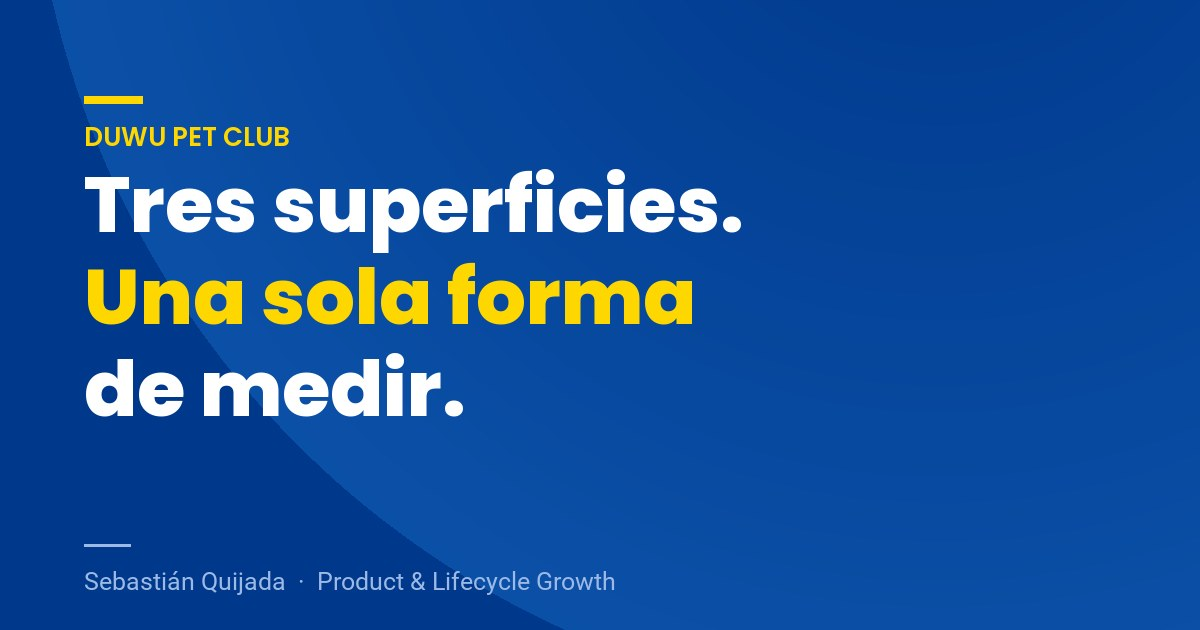
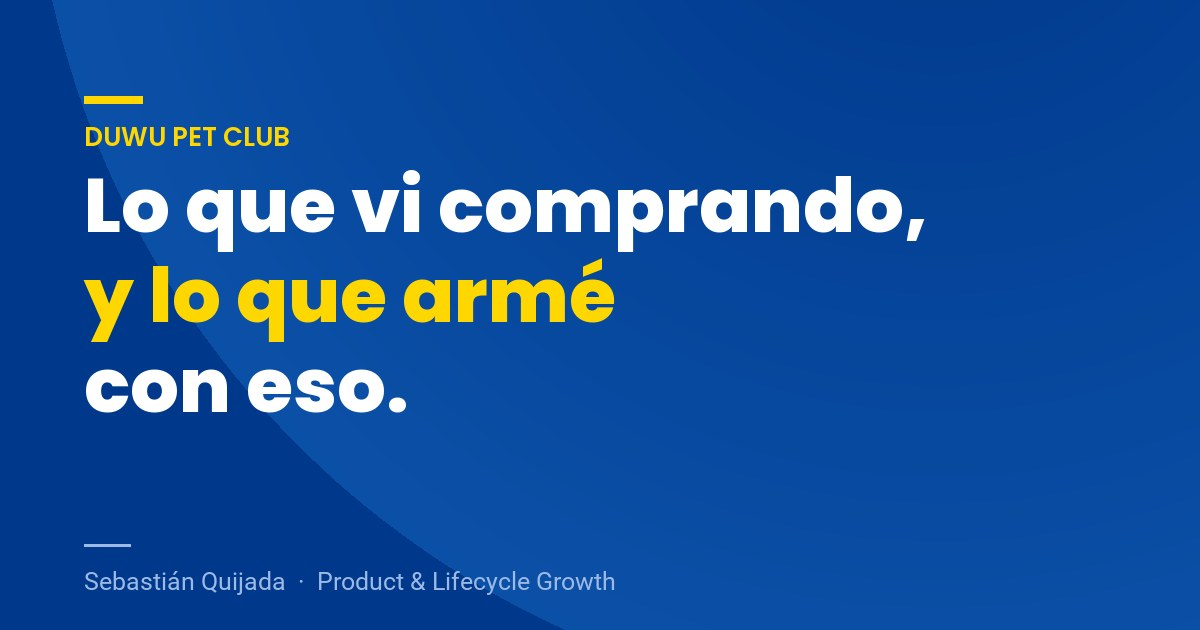
Cambiar el encuadre: observaciones de usuario en vez de informe de estado
El bloque "Web / iOS / Android · Verificado / Sin verificar" era una matriz de
auditoría: le informaba a Duwu algo que ya sabe y no aportaba nada. Además
contradecía el tono de la pieza, que no es una auditoría sino la perspectiva de
alguien que usó el producto.

Ahora la sección son tres observaciones de usuario que llevan a algo:
- el club existe pero no se ve hasta después de registrarse,
- la comida se acaba en una fecha calculable y el siguiente pedido depende de
  que el cliente se acuerde,
- la ubicación ya se pide y ya existe el catálogo de servicios, pero solo se usa
  para despachar.

Dos de las tres son exactamente las herramientas construidas más abajo, así que
la sección deja de ser un informe y pasa a ser el origen del trabajo. La tercera
queda declarada como no construida por tocar decisiones de negocio.

Se explicita que no es una auditoría, y sobre medición solo se afirma lo que se
puede ver, sin opinar de las apps ni del servidor.

Hero, imagen de previsualización y metas actualizados al nuevo encuadre.

Changed region(s): [[0.0617, 0.2714, 0.7708, 0.5429], [0.0617, 0.5429, 0.4008, 0.6635]]

diff --git a/pitch/index.html b/pitch/index.html
@@ -5,13 +5,13 @@
 <meta name="viewport" content="width=device-width, initial-scale=1, viewport-fit=cover">
 <meta name="color-scheme" content="light dark">
 <meta name="theme-color" content="#00388b">
-<meta name="description" content="Duwu vende por web, iOS y Android. Análisis y propuesta para estandarizar la medición entre las tres, con dos herramientas ya construidas.">
+<meta name="description" content="Tres cosas que noté comprando en Duwu, y dos herramientas que construí a partir de ahí: cálculo de reposición y servicios por cercanía.">
 
 <meta property="og:type" content="website">
 <meta property="og:locale" content="es_VE">
 <meta property="og:url" content="https://duwu-growth-pitch.vercel.app">
-<meta property="og:title" content="Tres superficies. Una sola forma de medir.">
-<meta property="og:description" content="Duwu vende por web, iOS y Android. Análisis y propuesta para estandarizar la medición entre las tres, con dos herramientas ya construidas.">
+<meta property="og:title" content="Lo que vi comprando, y lo que armé con eso.">
+<meta property="og:description" content="Tres cosas que noté comprando en Duwu, y dos herramientas que construí a partir de ahí: cálculo de reposición y servicios por cercanía.">
 <meta property="og:image" content="https://duwu-growth-pitch.vercel.app/og.jpg">
 <meta property="og:image:width" content="1200">
 <meta property="og:image:height" content="630">
@@ -180,6 +180,12 @@
   .stat .n{font-family:var(--display);font-size:3.4rem;font-weight:800;line-height:1;
     letter-spacing:-.045em;font-variant-numeric:tabular-nums;display:block;margin-bottom:.6rem}
   .stat.is-open::after{background:var(--rule-2)}
+  .stat.obs::after{background:var(--yellow)}
+  .stat.obs .t{
+    font-family:var(--display);font-size:1.12rem;font-weight:600;line-height:1.28;
+    letter-spacing:-.015em;margin-bottom:.7rem;
+  }
+  .stat.obs .d{font-size:.92rem}
   .stat .n.is-word{font-size:2.1rem;letter-spacing:-.03em;margin-bottom:.75rem}
   .mark-ok,.mark-open{
     display:inline-flex;align-items:center;gap:.4rem;font-family:var(--display);
@@ -529,14 +535,14 @@
     <div class="hero-grid">
       <div>
         <span class="eyebrow">Duwu Pet Club</span>
-        <h1>Tres superficies. <em>Una sola forma</em> de medir.</h1>
+        <h1>Lo que vi comprando, <em>y lo que armé</em> con eso.</h1>
         <p class="lede">
           Hace poco hice mi primera compra en Duwu y el recorrido completo, del onboarding a la
           entrega, me pareció excelente. Llevo <b>5 años en marketing</b>, pasando por growth,
           análisis de datos y desarrollo de producto, y en todo lo que uso termino viendo puntos de
           mejora. Más aún en un proyecto que resuelve algo tan necesario en Caracas, y ojalá pronto
-          en toda Venezuela. Duwu vende por web, iOS y Android: <b>el punto donde más valor veo es
-          en estandarizar cómo se mide en las tres</b>. Acá te dejo lo que vi, y lo que armé con eso.
+          en toda Venezuela. <b>Esto no es una auditoría</b> — no conozco sus datos ni sus razones.
+          Es lo que noté desde afuera, y dos cosas que construí a partir de ahí.
         </p>
         <div class="cta-row">
           <a class="btn btn-primary" href="#demo">Mira lo que armé ↓</a>
@@ -555,48 +561,43 @@
 <!-- ==================== HALLAZGO ==================== -->
 <section id="hallazgo">
   <div class="wrap">
-    <span class="sec-label reveal">Lo que puedo verificar y lo que no</span>
-    <h2 class="reveal">Miré la web a fondo. De las apps no puedo afirmar nada.</h2>
+    <span class="sec-label reveal">Desde afuera, como usuario</span>
+    <h2 class="reveal">Tres cosas que me quedaron dando vueltas</h2>
     <p class="sec-lede reveal">
-      Todo lo que traigo salió de revisar el sitio público. Es lo que cualquiera puede comprobar
-      desde afuera, y justo por eso tiene un límite que prefiero poner por delante.
+      Compré, me moví por la app y anoté lo que me llamó la atención. Varias de estas cosas
+      seguramente tienen una razón que desde afuera no alcanzo a ver — las dejo como observaciones
+      de alguien que usó el producto, no como diagnóstico.
     </p>
 
     <div class="stats">
-      <div class="stat reveal">
-        <span class="n is-word">Web</span>
-        <span class="mark-ok">Verificado</span>
-        <span class="t">El Pixel está bien puesto</span>
-        <span class="d">Meta Pixel activo y configurado, disparando los siete eventos de comercio.
-        ViewContent llega con identificador de producto, valor y moneda.</span>
+      <div class="stat obs reveal">
+        <span class="t">El club existe, pero me enteré tarde</span>
+        <span class="d">Hay niveles, recompensas y código de referidos. No los vi hasta después de
+        crear la cuenta, y la cuenta hace falta para armar el carrito. Lo que te haría volver está
+        detrás de lo primero que te cuesta hacer.</span>
       </div>
-      <div class="stat is-open reveal">
-        <span class="n is-word">iOS</span>
-        <span class="mark-open">Sin verificar</span>
-        <span class="t">No puedo saber qué mide</span>
-        <span class="d">La app puede tener una analítica distinta a la de la web, o la misma. Desde
-        afuera no hay forma de confirmarlo.</span>
+      <div class="stat obs reveal">
+        <span class="t">La comida se acaba en una fecha que se puede calcular</span>
+        <span class="d">Compré un saco. Con el peso de la mascota y el tamaño del saco, ustedes
+        pueden estimar cuándo se acaba mejor que yo. Y sin embargo el siguiente pedido depende de
+        que yo me acuerde.</span>
       </div>
-      <div class="stat is-open reveal">
-        <span class="n is-word">Android</span>
-        <span class="mark-open">Sin verificar</span>
-        <span class="t">Misma pregunta abierta</span>
-        <span class="d">Y si cada superficie mide con criterios distintos, los resultados dejan de
-        ser comparables entre ellas.</span>
+      <div class="stat obs reveal">
+        <span class="t">La ubicación solo sirve para entregar</span>
+        <span class="d">Ya la piden, y ya tienen el catálogo de servicios con sus categorías:
+        veterinaria, peluquería, hospedaje, entrenamiento, transporte. Esos dos datos juntos dan
+        para bastante más que despachar un pedido.</span>
       </div>
     </div>
 
     <p class="after-note reveal">
-      <b>Por eso el primer trabajo no es medir más, es acordar cómo se mide.</b> Un solo diccionario
-      de eventos, con los mismos nombres y las mismas propiedades en web, iOS y Android. Una
-      definición escrita de qué cuenta como activación, como conversión y como recompra. Y feature
-      flags para poder encender un experimento por superficie y leerlo con el mismo criterio.
-      Sin ese estándar, cada medición responde una pregunta distinta y ninguna se puede comparar
-      con la anterior.
-      <span class="aside">Otra cosa que noté como usuario: el club de lealtad no se ve hasta después
-      de registrarse, y registrarse es obligatorio para armar el carrito. Puede ser una decisión
-      propia del producto que yo no alcanzo a ver desde afuera; lo dejo como apreciación, no como
-      diagnóstico.</span>
+      <b>Dos de las tres las convertí en algo que se puede tocar</b>, ahí abajo. La primera no la
+      construí porque toca su modelo de negocio y no me corresponde decidirlo desde afuera; pero es
+      la que empezaría a probar primero, y es barata.
+      <span class="aside">Sobre medición prefiero no opinar de más: pude ver cómo mide la web,
+      pero no sé qué miden las apps ni qué tienen del lado del servidor. Lo que sí traigo es la
+      forma de trabajo — definir el evento, escribir el criterio de decisión antes de lanzar, y
+      dejar un grupo de control para saber si de verdad sirvió.</span>
     </p>
   </div>
 </section>

diff --git a/pitch/src/body.html b/pitch/src/body.html
@@ -151,6 +151,12 @@
   .stat .n{font-family:var(--display);font-size:3.4rem;font-weight:800;line-height:1;
     letter-spacing:-.045em;font-variant-numeric:tabular-nums;display:block;margin-bottom:.6rem}
   .stat.is-open::after{background:var(--rule-2)}
+  .stat.obs::after{background:var(--yellow)}
+  .stat.obs .t{
+    font-family:var(--display);font-size:1.12rem;font-weight:600;line-height:1.28;
+    letter-spacing:-.015em;margin-bottom:.7rem;
+  }
+  .stat.obs .d{font-size:.92rem}
   .stat .n.is-word{font-size:2.1rem;letter-spacing:-.03em;margin-bottom:.75rem}
   .mark-ok,.mark-open{
     display:inline-flex;align-items:center;gap:.4rem;font-family:var(--display);
@@ -499,14 +505,14 @@
     <div class="hero-grid">
       <div>
         <span class="eyebrow">Duwu Pet Club</span>
-        <h1>Tres superficies. <em>Una sola forma</em> de medir.</h1>
+        <h1>Lo que vi comprando, <em>y lo que armé</em> con eso.</h1>
         <p class="lede">
           Hace poco hice mi primera compra en Duwu y el recorrido completo, del onboarding a la
           entrega, me pareció excelente. Llevo <b>5 años en marketing</b>, pasando por growth,
           análisis de datos y desarrollo de producto, y en todo lo que uso termino viendo puntos de
           mejora. Más aún en un proyecto que resuelve algo tan necesario en Caracas, y ojalá pronto
-          en toda Venezuela. Duwu vende por web, iOS y Android: <b>el punto donde más valor veo es
-          en estandarizar cómo se mide en las tres</b>. Acá te dejo lo que vi, y lo que armé con eso.
+          en toda Venezuela. <b>Esto no es una auditoría</b> — no conozco sus datos ni sus razones.
+          Es lo que noté desde afuera, y dos cosas que construí a partir de ahí.
         </p>
         <div class="cta-row">
           <a class="btn btn-primary" href="#demo">Mira lo que armé ↓</a>
@@ -525,48 +531,43 @@
 <!-- ==================== HALLAZGO ==================== -->
 <section id="hallazgo">
   <div class="wrap">
-    <span class="sec-label reveal">Lo que puedo verificar y lo que no</span>
-    <h2 class="reveal">Miré la web a fondo. De las apps no puedo afirmar nada.</h2>
+    <span class="sec-label reveal">Desde afuera, como usuario</span>
+    <h2 class="reveal">Tres cosas que me quedaron dando vueltas</h2>
     <p class="sec-lede reveal">
-      Todo lo que traigo salió de revisar el sitio público. Es lo que cualquiera puede comprobar
-      desde afuera, y justo por eso tiene un límite que prefiero poner por delante.
+      Compré, me moví por la app y anoté lo que me llamó la atención. Varias de estas cosas
+      seguramente tienen una razón que desde afuera no alcanzo a ver — las dejo como observaciones
+      de alguien que usó el producto, no como diagnóstico.
     </p>
 
     <div class="stats">
-      <div class="stat reveal">
-        <span class="n is-word">Web</span>
-        <span class="mark-ok">Verificado</span>
-        <span class="t">El Pixel está bien puesto</span>
-        <span class="d">Meta Pixel activo y configurado, disparando los siete eventos de comercio.
-        ViewContent llega con identificador de producto, valor y moneda.</span>
+      <div class="stat obs reveal">
+        <span class="t">El club existe, pero me enteré tarde</span>
+        <span class="d">Hay niveles, recompensas y código de referidos. No los vi hasta después de
+        crear la cuenta, y la cuenta hace falta para armar el carrito. Lo que te haría volver está
+        detrás de lo primero que te cuesta hacer.</span>
       </div>
-      <div class="stat is-open reveal">
-        <span class="n is-word">iOS</span>
-        <span class="mark-open">Sin verificar</span>
-        <span class="t">No puedo saber qué mide</span>
-        <span class="d">La app puede tener una analítica distinta a la de la web, o la misma. Desde
-        afuera no hay forma de confirmarlo.</span>
+      <div class="stat obs reveal">
+        <span class="t">La comida se acaba en una fecha que se puede calcular</span>
+        <span class="d">Compré un saco. Con el peso de la mascota y el tamaño del saco, ustedes
+        pueden estimar cuándo se acaba mejor que yo. Y sin embargo el siguiente pedido depende de
+        que yo me acuerde.</span>
       </div>
-      <div class="stat is-open reveal">
-        <span class="n is-word">Android</span>
-        <span class="mark-open">Sin verificar</span>
-        <span class="t">Misma pregunta abierta</span>
-        <span class="d">Y si cada superficie mide con criterios distintos, los resultados dejan de
-        ser comparables entre ellas.</span>
+      <div class="stat obs reveal">
+        <span class="t">La ubicación solo sirve para entregar</span>
+        <span class="d">Ya la piden, y ya tienen el catálogo de servicios con sus categorías:
+        veterinaria, peluquería, hospedaje, entrenamiento, transporte. Esos dos datos juntos dan
+        para bastante más que despachar un pedido.</span>
       </div>
     </div>
 
     <p class="after-note reveal">
-      <b>Por eso el primer trabajo no es medir más, es acordar cómo se mide.</b> Un solo diccionario
-      de eventos, con los mismos nombres y las mismas propiedades en web, iOS y Android. Una
-      definición escrita de qué cuenta como activación, como conversión y como recompra. Y feature
-      flags para poder encender un experimento por superficie y leerlo con el mismo criterio.
-      Sin ese estándar, cada medición responde una pregunta distinta y ninguna se puede comparar
-      con la anterior.
-      <span class="aside">Otra cosa que noté como usuario: el club de lealtad no se ve hasta después
-      de registrarse, y registrarse es obligatorio para armar el carrito. Puede ser una decisión
-      propia del producto que yo no alcanzo a ver desde afuera; lo dejo como apreciación, no como
-      diagnóstico.</span>
+      <b>Dos de las tres las convertí en algo que se puede tocar</b>, ahí abajo. La primera no la
+      construí porque toca su modelo de negocio y no me corresponde decidirlo desde afuera; pero es
+      la que empezaría a probar primero, y es barata.
+      <span class="aside">Sobre medición prefiero no opinar de más: pude ver cómo mide la web,
+      pero no sé qué miden las apps ni qué tienen del lado del servidor. Lo que sí traigo es la
+      forma de trabajo — definir el evento, escribir el criterio de decisión antes de lanzar, y
+      dejar un grupo de control para saber si de verdad sirvió.</span>
     </p>
   </div>
 </section>

diff --git a/pitch/src/build.py b/pitch/src/build.py
@@ -31,8 +31,8 @@ SITIO = "https://duwu-growth-pitch.vercel.app"
 CORREO = "sebastiancordero08@gmail.com"
 URL_PLAN = "https://claude.ai/code/artifact/7a8b9beb-0aa8-4090-821c-5fc7e9378ff4"
 DESCRIPCION = (
-    "Duwu vende por web, iOS y Android. Análisis y propuesta para estandarizar "
-    "la medición entre las tres, con dos herramientas ya construidas."
+    "Tres cosas que noté comprando en Duwu, y dos herramientas que construí a "
+    "partir de ahí: cálculo de reposición y servicios por cercanía."
 )
 
 # El contenido se parte aquí: lo de arriba va al <head>, lo de abajo al <body>.
@@ -107,7 +107,7 @@ def main() -> int:
 <meta property="og:type" content="website">
 <meta property="og:locale" content="es_VE">
 <meta property="og:url" content="{SITIO}">
-<meta property="og:title" content="Tres superficies. Una sola forma de medir.">
+<meta property="og:title" content="Lo que vi comprando, y lo que armé con eso.">
 <meta property="og:description" content="{DESCRIPCION}">
 <meta property="og:image" content="{SITIO}/og.jpg">
 <meta property="og:image:width" content="1200">
